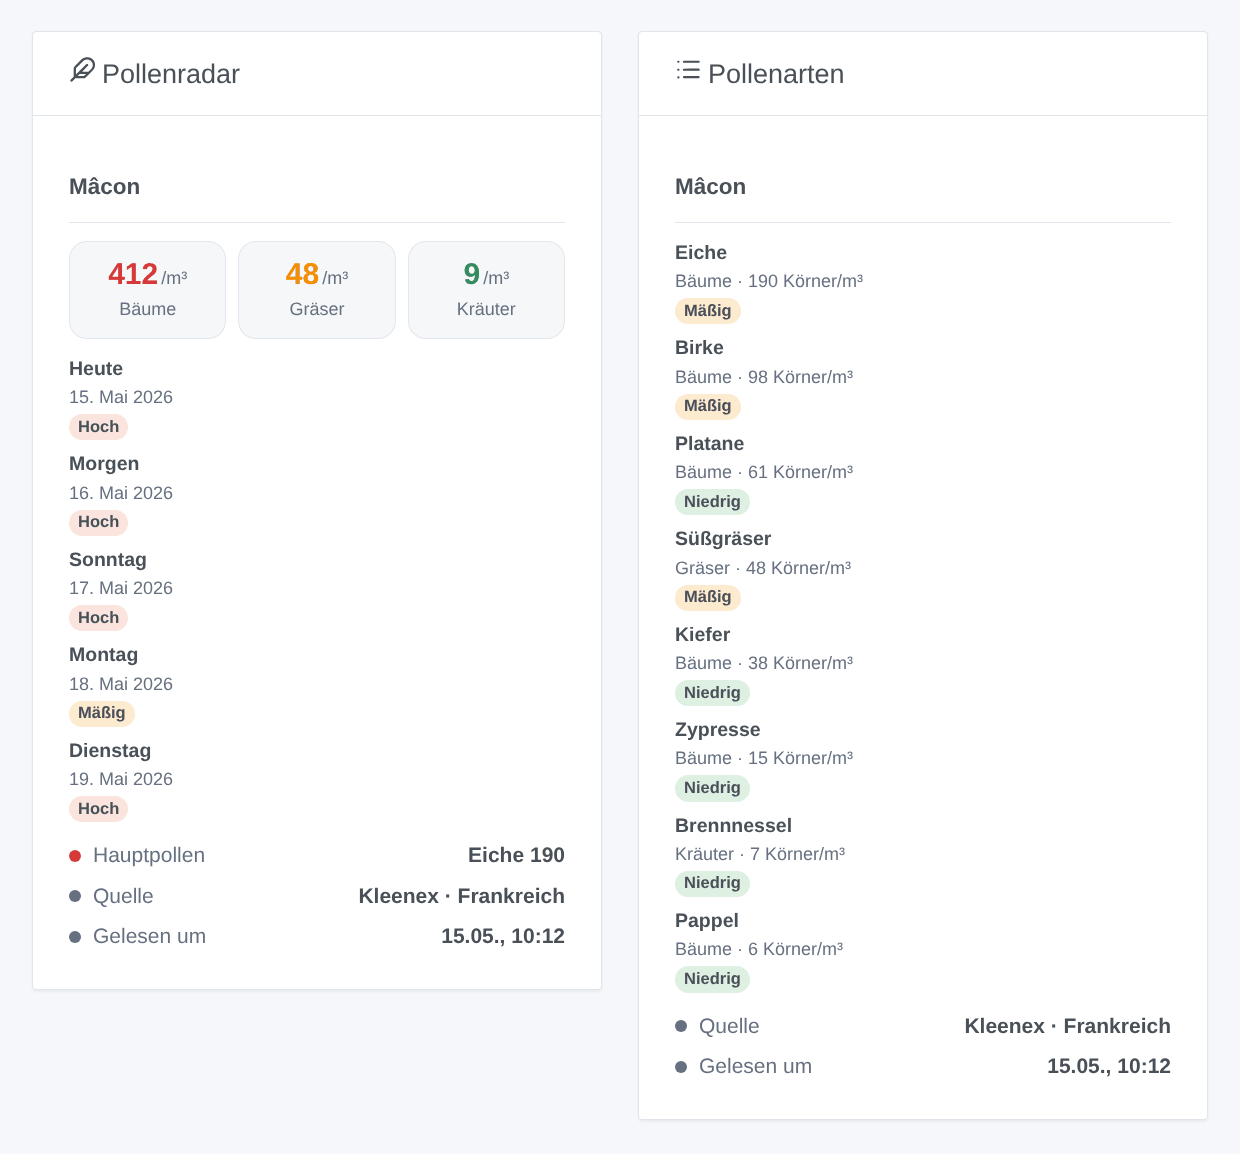
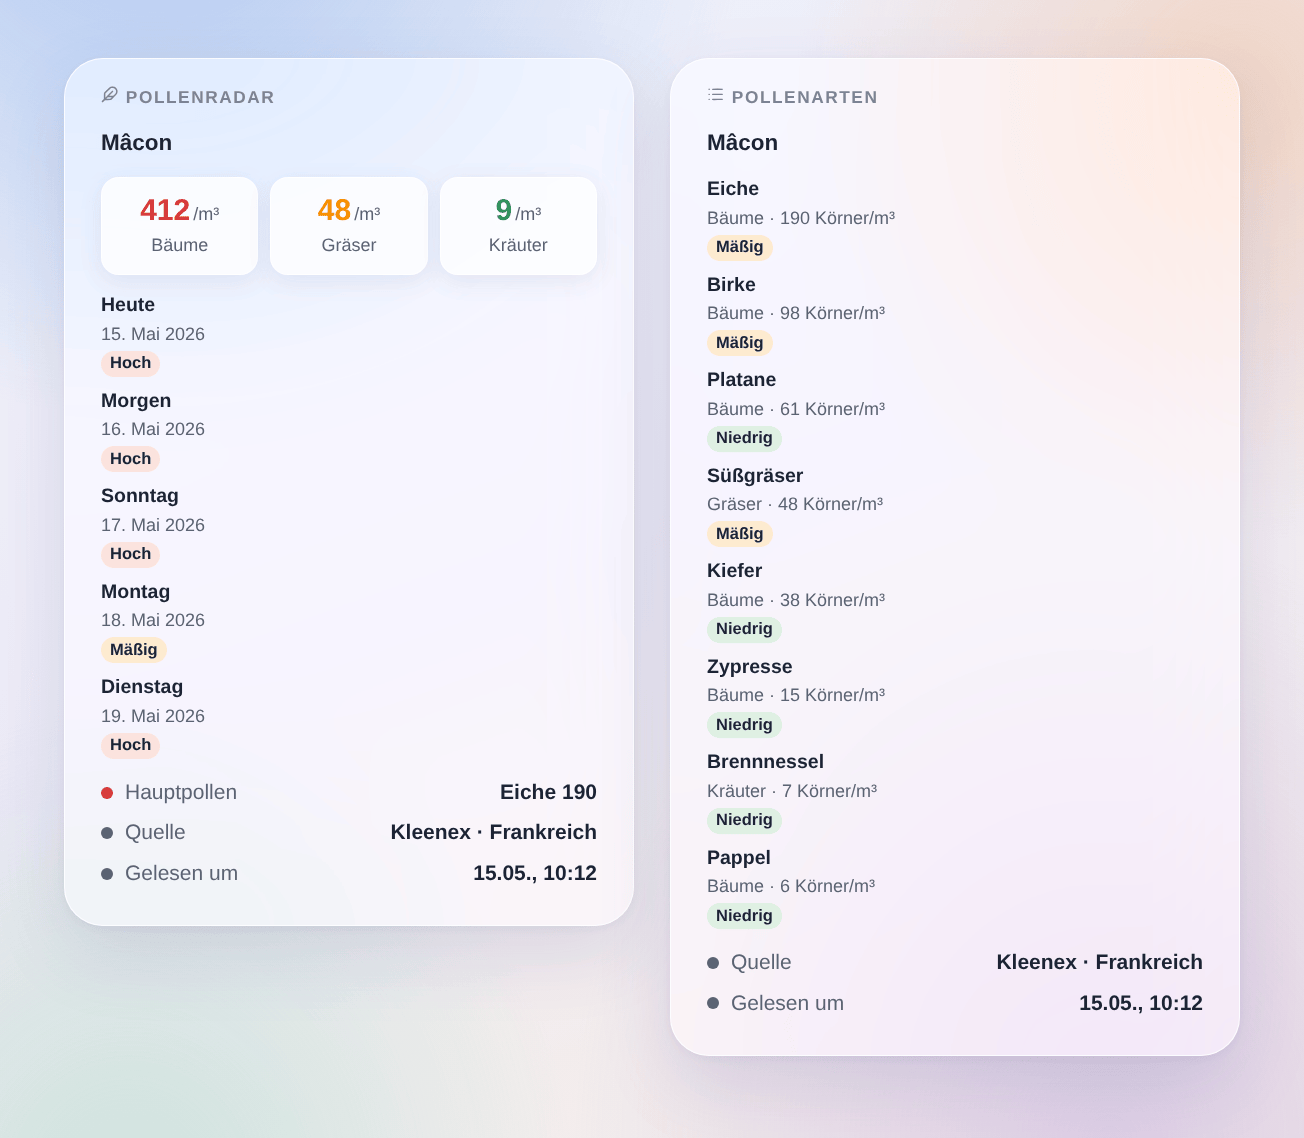
docs: widget illustrations in the Gladys 5 look (Horizon glass dashboard)
The illustrations used the Gladys v4 card look. render.sh now takes the styles of the current Gladys front, adds the Horizon dashboard theme (glass cards, uppercase title, default scene) and quantizes with libimagequant so the small colored dots survive the gradient.

Changed region(s): [[0.0, 0.0, 1.0, 1.0], [0.3677, 0.1845, 0.429, 0.2768]]

diff --git a/docs/illustrations/index.html b/docs/illustrations/index.html
@@ -5,10 +5,25 @@
     <link rel="stylesheet" href="vendor/theme/package/dashboard.css" />
     <link rel="stylesheet" href="widget.css" />
     <link rel="stylesheet" href="dark-mode.css" />
+    <link rel="stylesheet" href="horizon.css" />
     <style>
       body {
-        background: #f5f7fb;
-        padding: 24px;
+        background: #fff;
+        margin: 0;
+        padding: 8px;
+      }
+      /* the page header of the theme shares the class name of the widget
+         header slot (a CSS module class in Gladys): keep it off the widget */
+      .card .header {
+        padding: 0;
+        background: none;
+        border-bottom: 0;
+      }
+      /* the dashboard scene, a margin around the cards for their shadow */
+      #stage {
+        display: inline-block;
+        overflow: hidden;
+        padding: 40px 44px 56px;
       }
       #row {
         display: flex;
@@ -31,7 +46,7 @@
     <script src="data.js"></script>
   </head>
   <body>
-    <div id="row"></div>
+    <div id="stage" class="glass-theme glassScene"><div id="row"></div></div>
     <script>
       if (new URLSearchParams(location.search).get('theme') === 'dark') {
         document.documentElement.classList.add('dark-mode');
